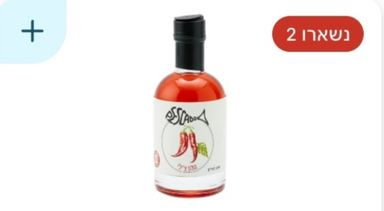
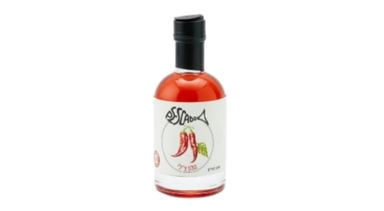
Boucherie & poisson : 24 photos retouchées par le gérant (le rayon entier)
Il a renvoyé le rayon « Boucherie & poisson » en entier : 24 photos
repère dont il a effacé le « + » et les pastilles de Wolt. 516
retouchées sur 718 ; il reste 120 photos de Wolt non retouchées sur des
articles en vente (électronique, apéro, entretien, surgelés).

Claude-Session: https://claude.ai/code/session_01JfiBMDfPpcu8d2j1eWQu1s

Changed region(s): [[0.0, 0.0, 0.1875, 0.3128], [0.6875, 0.0569, 0.9688, 0.2559]]

diff --git a/tests/reperes-wolt.test.ts b/tests/reperes-wolt.test.ts
@@ -198,7 +198,7 @@ describe("photos repère", () => {
     }
     // Les premiers lots : les douze étuis de capsules Nespresso, puis le reste de l'épicerie.
     expect(Object.keys(registre).filter((f) => f.startsWith("capsules-nespresso-")).length).toBeGreaterThanOrEqual(12);
-    expect(Object.keys(registre).length).toBeGreaterThanOrEqual(492); // les rayons Crèmerie (228), Pain (75), Boissons (157) et les deux photos de Wolt des fruits et légumes
+    expect(Object.keys(registre).length).toBeGreaterThanOrEqual(516); // les rayons Crèmerie (228), Pain (75), Boissons (157), Boucherie & poisson (24) et les deux photos de Wolt des fruits et légumes
     // Une photo du site lui-même (libre de droits, `public/`) n'est jamais au registre : ce n'est pas une photo de Wolt.
     for (const fichier of Object.keys(registre)) expect(existsSync(`public/produits/frais/${fichier}`), fichier).toBe(false);
     // L'outil ne pose qu'une retouche : même taille, rien que la photo en service ne montrait déjà, rien d'écrit hors du dossier privé.

diff --git a/CLAUDE.md b/CLAUDE.md
@@ -71,7 +71,7 @@ npm run seed         # catégories + réglages ; seed:demo ajoute des produits d
 - **« Je n'ai pas d'images alors que je t'ai tout envoyé de Wolt »** (le gérant, 17 novembre 2026, deux captures de l'ACCUEIL PUBLIC à l'appui — des cartes d'articles avec l'icône du rayon à la place d'une photo). Ce jour-là, « mets-moi toutes les photos ! » voulait dire : montre les photos de Wolt AUX CLIENTS, sur les articles du site. On ne le fait pas, et on le lui dit sans détour : ces photos sont celles de Wolt (découpées dans ses captures, souvent avec le « + » et les pastilles de Wolt dessus) ; lui envoyer une capture ne les rend pas siennes, et les publier sur un site qui revend les articles de Wolt l'expose auprès de Wolt, dont il dépend pour ses achats. Elles restent dans son espace (les 718 articles en vente ont la leur) — c'était la réponse de l'après-midi ; prévenu, il a décidé autrement le soir même (« Photos de Wolt pour tout le monde », plus bas : sa décision, on ne la rediscute pas). Ce qu'on lui propose pour les remplacer : « Photos rapides » → « Coller » (une image qu'il choisit lui-même, de préférence la photo de la marque), la photo prise au téléphone quand il a l'article en main (« Ajouter »), ou l'accord écrit de Wolt — alors elles se publient. LEÇON : « sans images » peut désigner son espace (15 novembre) OU le site public (17 novembre) — regarder sa capture ; s'il n'y en a pas, lui demander de quel écran il parle AVANT de chercher une panne. Ce jour-là on a d'abord cherché une panne d'affichage dans son espace, à tort : il n'y en avait pas. Il en reste un contrôle utile, lisible de l'extérieur : `/admin/repere/etat` (sans connexion : des NOMBRES seulement, jamais un nom ni une photo) dit combien de photos de la liste sont lisibles sur le serveur — 718 sur 718 — et ce que le serveur qui répond a fait des demandes de photos depuis son démarrage (servies, refusées, inconnues, illisibles). Pièges rencontrés : `pkill -f "next start"` ne tue PAS le serveur (le processus s'appelle `next-server`) — un ancien serveur reste sur le port et répond à la place du nouveau : `pkill -f next-server` ; et `npm run build` signale « Dynamic filesystem access causes tracing of the whole project » pour cette route (c'est ce qui embarque les photos : ne pas le « corriger » sans relire `/admin/repere/etat` après la mise en ligne).
 - **Vue du gérant sur le site** (17 novembre 2026, sa réponse au refus ci-dessus : « oui mais grâce à ces images de Wolt je peux chercher les images qui correspondent à chaque produit — alors mets-moi les images »). C'est sur SON site qu'il regarde ses articles : quand il est connecté à son espace sur l'appareil, chaque carte et chaque fiche de la boutique dont l'article n'a pas encore sa photo montre celle de Wolt, étiquetée « Wolt ». Une seule porte : `lib/vue-gerant.ts` — `vueDuGerant()` dit qui regarde (`gerant`, `pourTous`, `photosDeWolt`, `etiquettes`), `reperesPour(liste)` donne la photo de chaque article sans photo (elle relit le `nomWolt` sans le sortir) ; les lectures de `lib/catalogue.ts` passent toutes par `versPublics`, qui pose `ProduitPublic.repere` (`{ photo, etiquette }`, ou `null` : le visiteur ne reçoit alors même pas l'adresse). Affichage : `components/admin/ApercuGerant.tsx` (`ApercuSurCarte` à la place de l'icône du rayon ; `ApercuSurFiche` : la photo entière et, pour le gérant, « Mettre sa photo » → `/admin/produits/photos#p-<id>`, la ligne de l'article visée d'office dans « Photos rapides »). L'étiquette « Wolt » et ce lien n'existent que pour le gérant (`repere.etiquette`) : le site ne nomme jamais Wolt devant un client. Sous l'en-tête, le bandeau `BandeauDuGerant` (`components/admin/VueDuGerant.tsx`, rien pour un client ; en français, de gauche à droite, même sur une page en hébreu) dit qui voit ces photos, mène à « Photos rapides » et aux réglages, et porte « Voir comme un client » / « Revenir à ma vue » (`changerLaVueDuSite`, cookie `vue_client`, douze heures : un simple choix d'affichage, qui ne vaut rien sans la connexion du gérant). Une image qu'il colle dans « Photos rapides » prend la place de la photo de Wolt, pour lui comme pour ses clients. Les pages de la boutique ne sont gardées par aucun cache partagé (`force-dynamic`, `private, no-store`) : ne jamais en ajouter un sans sortir `repere` de ce qui est gardé. Vérifier : `tests/navigateur/vue-gerant.mjs` (112 vérifications, dans les deux états du réglage ci-dessous ; il coche et décoche le réglage puis le remet : base locale seulement — `SANS_GERANT=1` sur le vrai site : la partie « client » seule, sans rien modifier), `tests/reperes-wolt.test.ts`.
 - **Photos de Wolt pour tout le monde** (décision du gérant, 17 novembre 2026 au soir : « le site a 0 client, on est 2 à bosser dessus et on ne peut pas se connecter à l'admin à chaque fois — active-moi les photos pour tout le monde »). Prévenu deux fois, le jour même, que ces photos sont celles de Wolt et des marques et de ce que cela risque auprès de Wolt, il a choisi : c'est SA décision, on l'applique sans la rediscuter. C'est un RÉGLAGE, pas du code : `Reglages.photosWoltPourTous` (Réglages → « Photos de Wolt pour tout le monde », faux par défaut dans le schéma), coché une seule fois par la mise en ligne (`montrerLesPhotosDeWoltATous`, clé dans `operationsFaites`) — s'il le décoche, il le reste. Coché : tout visiteur voit la photo de Wolt sur les articles sans photo (sans étiquette), et la route `/admin/repere/<fichier>` la sert sans connexion (`public, max-age=600` : décochée, la case fait effet en dix minutes au plus ; le réglage lui-même est relu toutes les dix secondes, `photosDeWoltPourTous`). Décoché : retour à la vue du gérant seule, la route exige de nouveau sa connexion. Dans les deux cas ces photos restent hors de `public/`, ne sont jamais copiées dans `photoUrl`, et les moteurs de recherche n'y vont pas (`/admin` fermé dans `robots.txt`, en-tête `noindex`). `/admin/repere/etat` porte `pourTous` : on lit de l'extérieur l'état du réglage. Ce qui reste vrai, à lui redire UNE fois quand il annoncera des clients (pas avant, pas à chaque message) : décocher la case, ou d'ici là remplacer les photos par les siennes dans « Photos rapides » — chaque image collée prend la place de celle de Wolt. Ne pas étendre : pas de photo de Wolt dans un e-mail, la carte d'aperçu de lien, le panier, ni comme photo enregistrée d'un article. S'il envoie une capture du site avec des photos de Wolt, c'est normal : le réglage est coché.
-- **Les photos de Wolt retouchées par le gérant** (24 novembre 2026 : « si je t'envoie un fichier zip, tu peux le décompresser ? j'ai mes nouvelles images dedans » — après avoir reçu l'export de toutes les photos du site, un ZIP rangé par rayon où chaque image porte le nom de l'article). Ses « nouvelles images » sont les MÊMES photos repère (384 × 211), dont il a effacé le « + » et les pastilles de Wolt : il les renvoie par lots, dans un ZIP, sous le nom que l'export leur a donné (« Capsules Nespresso Capriccio 60 g.jpg »). Chaque retouche REMPLACE le fichier de `prive/reperes-wolt` qu'elle retouche — même nom de fichier, donc rien d'autre ne change : le site la montre partout où il montrait l'ancienne (cartes, fiches, espace gérant), sous le même réglage « Photos de Wolt pour tout le monde », et le gérant connecté la voit toujours étiquetée « Wolt ». Elle RESTE une photo repère : jamais dans `public/`, jamais copiée dans `photoUrl` — effacer le « + » ne change pas à qui est la photo ; on le lui a dit une fois, en lui laissant le choix d'en faire les photos définitives de ces articles s'il le demande en le sachant. Poser un lot : décompresser l'archive dans un dossier vide à elle (données reçues : on n'en lit que les points), `npx tsx tests/outils/poser-photos-retouchees.ts <dossier>` (essai à blanc), puis `--poser`. L'outil ne pose qu'une vraie retouche — un article de ce nom existe, même taille que la photo en service, et ce que l'image montre était DÉJÀ dans la photo en service (`ressemblance` : une retouche efface et n'ajoute rien — le « + », les pastilles, l'étiquette de poids de Wolt, souvent tout le fond gris d'une photo du traiteur ou de la boulangerie, DÉTOURÉE : il peut n'en rester qu'un cinquième, d'où des seuils larges, 80 % de « déjà là » et 10 % de « gardé », qui restent très loin d'une autre image — 3 à 13 % pour un autre article ; une image glissée sous un mauvais nom, ou une autre photo du même article, est refusée), moins de 40 Ko — et note le lot dans `prive/reperes-retouches.json`. Où l'on en est : 492 sur 718 (le 24 novembre : trois dossiers de dix, puis les rayons Crèmerie, Pain, Boissons et Fruits & légumes entiers) — tout « Courses & épicerie » (27 articles, dont les 12 étuis Nespresso), toute la « Crèmerie & œufs » (231 ; ses quatre boîtes d'œufs ont déjà la photo libre du site), tout « Pain & pâtisserie » (75), toutes les « Boissons » (157) et les deux seules photos de Wolt des « Fruits & légumes » (betteraves, menthe) ; il reste 144 photos de Wolt non retouchées sur des articles en vente (Électronique 80, Boucherie & poisson 24, Apéro 22, Entretien 15, Surgelés 3). **Il détoure aussi les photos LIBRES du site** (rayon « Fruits & légumes », `public/produits/frais`, 600 × 600) : sur les 38 de ce rayon, sept sont revenues détourées sur blanc (aubergines, citrons, laitue romaine, oignons verts, poivrons tricolores, pommes de terre rouges, pommes Granny Smith), deux seulement réenregistrées (ail, oignons jaunes : laissées) et 29 inchangées. Une photo du site détourée prend la place du MÊME fichier de `public/produits/frais` — la seule écriture de l'outil hors du dossier privé, et seulement si l'image est cette photo du site retouchée (même taille, rien qu'elle ne montrait déjà : une photo de Wolt ne peut pas y arriver). Les licences (CC BY, CC BY-SA) permettent de modifier à condition de le dire : la photo est marquée `detouree` dans `lib/credits-photos.ts`, sa ligne de la page /credits porte « fond retiré » (`credits.fondRetire`, cinq langues) et le paragraphe « Modifications » le dit (`tests/photos.test.ts`). La bannière de l'accueil et l'affiche A4 sont des images à part : elles gardent les anciennes photos tant qu'on ne les refait pas. Il renvoie maintenant des RAYONS ENTIERS, dans le dossier que l'export leur a donné (« 02 - Crèmerie & œufs », 235 images) : l'outil y range à part, sous « Laissées » et sans échouer, ce qui n'est pas à poser — la photo du site elle-même (les œufs : `public/produits/frais`, 600 × 600, pas une photo de Wolt), une image qu'il n'a pas touchée, et une photo déjà retouchée DAVANTAGE dans un lot précédent (les trois Actimel : dans le rayon entier il n'avait effacé que le « + », dans son dossier 3 les bandeaux aussi — on garde la mieux retouchée, et on le lui dit). Dans un rayon entier il n'efface souvent que le « + » : les bandeaux de couleur de Wolt (« 16 יחידות », le goût) restent sur la photo — c'est son choix, ne pas les retirer à sa place. Ses archives arrivent avec des noms de fichiers aux accents décomposés (« é » en deux signes) : l'outil les lit quand même (`normalize("NFC")`). Regarder tout de même le lot sur une planche avant de le poser, lui dire le compte (posées, refusées et pourquoi) et ce qui manque. Une AUTRE photo du même article (une vraie photo de marque, plus grande) n'est pas une retouche : elle se pose comme photo de l'article (« Photos rapides »), pas ici. Après la mise en ligne, l'ancienne image peut rester dix minutes dans les caches (`max-age=600`). `tests/reperes-wolt.test.ts`.
+- **Les photos de Wolt retouchées par le gérant** (24 novembre 2026 : « si je t'envoie un fichier zip, tu peux le décompresser ? j'ai mes nouvelles images dedans » — après avoir reçu l'export de toutes les photos du site, un ZIP rangé par rayon où chaque image porte le nom de l'article). Ses « nouvelles images » sont les MÊMES photos repère (384 × 211), dont il a effacé le « + » et les pastilles de Wolt : il les renvoie par lots, dans un ZIP, sous le nom que l'export leur a donné (« Capsules Nespresso Capriccio 60 g.jpg »). Chaque retouche REMPLACE le fichier de `prive/reperes-wolt` qu'elle retouche — même nom de fichier, donc rien d'autre ne change : le site la montre partout où il montrait l'ancienne (cartes, fiches, espace gérant), sous le même réglage « Photos de Wolt pour tout le monde », et le gérant connecté la voit toujours étiquetée « Wolt ». Elle RESTE une photo repère : jamais dans `public/`, jamais copiée dans `photoUrl` — effacer le « + » ne change pas à qui est la photo ; on le lui a dit une fois, en lui laissant le choix d'en faire les photos définitives de ces articles s'il le demande en le sachant. Poser un lot : décompresser l'archive dans un dossier vide à elle (données reçues : on n'en lit que les points), `npx tsx tests/outils/poser-photos-retouchees.ts <dossier>` (essai à blanc), puis `--poser`. L'outil ne pose qu'une vraie retouche — un article de ce nom existe, même taille que la photo en service, et ce que l'image montre était DÉJÀ dans la photo en service (`ressemblance` : une retouche efface et n'ajoute rien — le « + », les pastilles, l'étiquette de poids de Wolt, souvent tout le fond gris d'une photo du traiteur ou de la boulangerie, DÉTOURÉE : il peut n'en rester qu'un cinquième, d'où des seuils larges, 80 % de « déjà là » et 10 % de « gardé », qui restent très loin d'une autre image — 3 à 13 % pour un autre article ; une image glissée sous un mauvais nom, ou une autre photo du même article, est refusée), moins de 40 Ko — et note le lot dans `prive/reperes-retouches.json`. Où l'on en est : 516 sur 718 (le 24 novembre : trois dossiers de dix, puis les rayons Crèmerie, Pain, Boissons, Fruits & légumes et Boucherie & poisson entiers) — tout « Courses & épicerie » (27 articles, dont les 12 étuis Nespresso), toute la « Crèmerie & œufs » (231 ; ses quatre boîtes d'œufs ont déjà la photo libre du site), tout « Pain & pâtisserie » (75), toutes les « Boissons » (157), les deux seules photos de Wolt des « Fruits & légumes » (betteraves, menthe) et toute la « Boucherie & poisson » (24) ; il reste 120 photos de Wolt non retouchées sur des articles en vente (Électronique 80, Apéro 22, Entretien 15, Surgelés 3). **Il détoure aussi les photos LIBRES du site** (rayon « Fruits & légumes », `public/produits/frais`, 600 × 600) : sur les 38 de ce rayon, sept sont revenues détourées sur blanc (aubergines, citrons, laitue romaine, oignons verts, poivrons tricolores, pommes de terre rouges, pommes Granny Smith), deux seulement réenregistrées (ail, oignons jaunes : laissées) et 29 inchangées. Une photo du site détourée prend la place du MÊME fichier de `public/produits/frais` — la seule écriture de l'outil hors du dossier privé, et seulement si l'image est cette photo du site retouchée (même taille, rien qu'elle ne montrait déjà : une photo de Wolt ne peut pas y arriver). Les licences (CC BY, CC BY-SA) permettent de modifier à condition de le dire : la photo est marquée `detouree` dans `lib/credits-photos.ts`, sa ligne de la page /credits porte « fond retiré » (`credits.fondRetire`, cinq langues) et le paragraphe « Modifications » le dit (`tests/photos.test.ts`). La bannière de l'accueil et l'affiche A4 sont des images à part : elles gardent les anciennes photos tant qu'on ne les refait pas. Il renvoie maintenant des RAYONS ENTIERS, dans le dossier que l'export leur a donné (« 02 - Crèmerie & œufs », 235 images) : l'outil y range à part, sous « Laissées » et sans échouer, ce qui n'est pas à poser — la photo du site elle-même (les œufs : `public/produits/frais`, 600 × 600, pas une photo de Wolt), une image qu'il n'a pas touchée, et une photo déjà retouchée DAVANTAGE dans un lot précédent (les trois Actimel : dans le rayon entier il n'avait effacé que le « + », dans son dossier 3 les bandeaux aussi — on garde la mieux retouchée, et on le lui dit). Dans un rayon entier il n'efface souvent que le « + » : les bandeaux de couleur de Wolt (« 16 יחידות », le goût) restent sur la photo — c'est son choix, ne pas les retirer à sa place. Ses archives arrivent avec des noms de fichiers aux accents décomposés (« é » en deux signes) : l'outil les lit quand même (`normalize("NFC")`). Regarder tout de même le lot sur une planche avant de le poser, lui dire le compte (posées, refusées et pourquoi) et ce qui manque. Une AUTRE photo du même article (une vraie photo de marque, plus grande) n'est pas une retouche : elle se pose comme photo de l'article (« Photos rapides »), pas ici. Après la mise en ligne, l'ancienne image peut rester dix minutes dans les caches (`max-age=600`). `tests/reperes-wolt.test.ts`.
 - **Ce que Wolt ne vend pas est SUPPRIMÉ du site** (décision du gérant, 15 novembre 2026 : « tout ce que tu ne vois pas sur les photos, tu me le supprimes — je ne peux pas faire des produits que Wolt n'a pas »). La seule preuve qu'un article n'est pas chez Wolt est la page ENTIÈRE de son rayon : une liste par page entière reçue, dans `prisma/absents-de-wolt.ts` (`ABSENTS_DE_WOLT`), appliquée une seule fois par `supprimerLesAbsentsDeWolt` (supprimés pour de bon — masqués, ils resteraient dans son espace ; une commande passée garde sa ligne). Une page partielle (« Les plus commandés », « Promotions », des captures d'écran qui ne se recouvrent pas) ne prouve RIEN : ne rien supprimer d'après elle, et le lui dire — une suppression « de tout ce qui n'a pas de photo » aurait emporté un tiers du catalogue, dont des rayons entiers dont il n'a jamais envoyé la page. Fait : le rayon Boissons (page entière du 15 novembre, 261 cartes) — 16 boissons supprimées, 157 restent. Ne sont jamais dans ces listes : un article que Wolt affichait lors d'un relevé précédent et plus ce jour-là (il a son nom exact, son prix, souvent sa photo ; Wolt peut le remettre en rayon : on le signale au gérant, qui décide de le masquer) ; un article de sa liste dont il a noté lui-même le prix d'achat (il l'a trouvé sur Wolt : `prixAchat: null` dans la condition). Pour un autre rayon : lui demander la page entière (« כל הפריטים » du rayon, défilée jusqu'en bas), comparer TOUS les articles en vente du rayon à la page — pas seulement ceux sans photo —, lui montrer la liste, puis ajouter une entrée (`tests/absents-de-wolt.test.ts`).
 - **Ce qui a sa photo de Wolt se vend** (décision du gérant, 16 novembre 2026 : « mets-moi même les produits que tu as supprimés, si tu as les images »). Les 21 articles SUPPRIMÉS n'avaient aucune image (ils l'ont été parce que Wolt ne les montrait pas) : aucun n'est revenu. Mais 40 articles MASQUÉS avaient leur photo ; on lui a posé la question groupe par groupe, avec la raison de chaque masquage, et il a choisi les trois : 7 boissons que Wolt n'affichait plus le 15 novembre, 20 poissons surgelés, 13 viandes et volailles (`prisma/remise-en-vente-1116.ts`, `remettreEnVenteCeQuiAUnePhoto`, une seule fois, seulement un article encore masqué qui a un prix ; `tests/remise-en-vente-avec-photo.test.ts`). Sa règle — je reconnais l'article, donc je le vends — passe donc AVANT ses décisions du 11 novembre (viande : cacherout) et du 15 (poisson surgelé, boissons absentes de la page entière), mais pour ces 40 articles seulement : les 27 viandes, les 2 poissons surgelés et les 339 autres articles sans photo restent masqués, l'alcool reste « à réfléchir », la liste Dynamica reste masquée. Quand une capture montre un article masqué, il reçoit sa photo et revient en vente — SAUF ce qu'il a retiré lui-même le 19 novembre (plus bas) : la viande et le poulet frais, le poisson frais et surgelé, la viande surgelée et les glaces ne reviennent que sur sa demande ; ne pas AJOUTER de nouveaux articles de viande pour autant (`tests/retrait-viande.test.ts`). Le rayon où la viande revient a repris son nom, « Boucherie & poisson » (« Meat & fish », « Мясо и рыба », « בשר ודגים », « Carne y pescado » : `rayons.poisson` des cinq dictionnaires), à la MÊME adresse `poisson` ; la viande s'y range dans le sous-rayon « Viande & volaille », qui existait déjà. Résultat ce jour-là : 718 articles en vente, qui ont tous leur photo de Wolt (Crèmerie 235, Boissons 157, Électronique 80, Pain 75, Boucherie & poisson 53, Fruits & légumes 40, Épicerie 27, Apéro 22, Entretien 15, Surgelés 14) — 678 depuis ses retraits du 19 novembre (Boucherie & poisson 24, Surgelés 3) ; plus aucun rayon ne tient en 12 articles (`parcours-rayons.mjs` suit les surgelés comme un rayon à sous-rayons). Les 7 boissons peuvent manquer sur Wolt le jour d'une commande : il le sait.
 - **Viande et poulet frais : retirés** (décision du gérant, 19 novembre 2026 : « enlève-moi tout ce qui est viande, poulet frais »). Sept des treize viandes revenues en vente le 16 — celles dont le nom dit « frais », toutes au poids, rayon « Boucherie & poisson » : cinq poulets (blanc, aiguillettes, émincé, steaks de pargit, assortiment) et deux bœufs (entrecôte, émincé) — sont MASQUÉES une seule fois (`VIANDE_FRAICHE`, `prisma/retrait-viande-fraiche-1119.ts` ; `retirerLaViandeFraiche`, lancée APRÈS `remettreEnVenteCeQuiAUnePhoto` : sur une base neuve celle-ci les remet d'abord en vente). Masquées, pas supprimées : elles gardent nom, prix et photo dans son espace ; ce qu'il remet en vente lui-même y reste. Il n'a parlé que du FRAIS : restent en vente la charcuterie sous vide (deux saucisses et deux pastramis Tirat Zvi, seuls articles du sous-rayon « Viande & volaille » désormais) et les deux surgelés (blanc de poulet, bœuf haché) — on le lui a dit ; s'il veut les retirer aussi, une opération de plus, sur sa demande. Désormais une capture de Wolt ne ramène plus de viande ni de poulet frais en vente : seulement s'il le demande. 711 articles en vente après ce retrait, Boucherie & poisson 46 (`tests/retrait-viande-fraiche.test.ts`).
